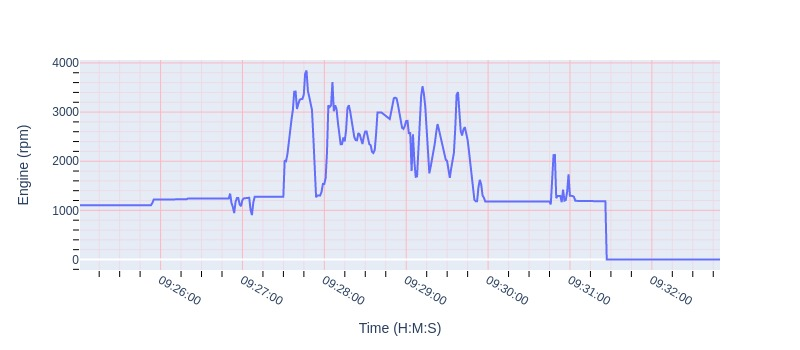
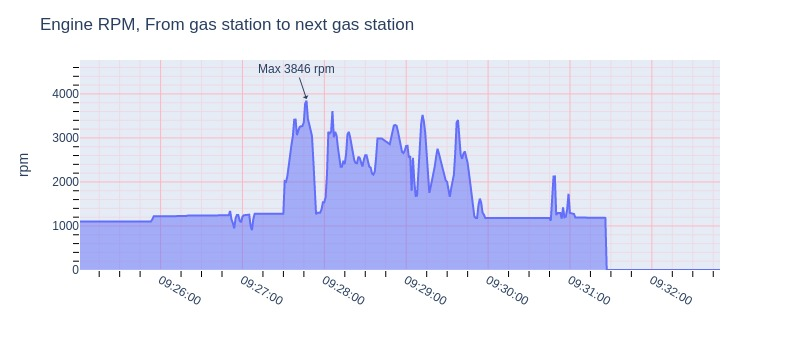
feat: add some graphs

diff --git a/rideology2gpx_tool/data_file.py b/rideology2gpx_tool/data_file.py
@@ -1,4 +1,5 @@
 import plotly.express as px
+from plotly.graph_objects import Figure, Table
 from pathlib import Path
 from datetime import timedelta
 from datetime import datetime
@@ -241,17 +242,13 @@ class DataFile():
         out.sort(key=lambda d: [d['gear'], d['kmh']])
         return out
 
-    def _table_report(self, tablefmt='plain'):
+    def _table_report(self, tablefmt='github'):
 
         table = []
 
         F = lambda x: x
         if tablefmt=='plain':
             F = lambda x: f"{x}:"
-        
-        kargs = {'tablefmt': tablefmt}
-        if tablefmt=='github':
-            kargs['headers'] = ['Item', 'Value']
 
         table.append([F('Max engine speed'), f"{self.max_engine_rpm} rpm"])
         table.append([F('Max wheel speed'), f"{self.max_wheel_speed} km/h"])
@@ -265,6 +262,16 @@ class DataFile():
         table.append([F('Distance'), f"{self.distance:.2f} km"])
         table.append([F('Starting point'), str(self.start)])
         table.append([F('Ending point'), str(self.end)])
+
+        return table
+
+    def _table_report_str(self, tablefmt='plain'):
+
+        table = self._table_report(tablefmt=tablefmt)
+       
+        kargs = {'tablefmt': tablefmt}
+        if tablefmt=='github':
+            kargs['headers'] = ['Item', 'Value']
 
         return tabulate(table, **kargs)
 
@@ -287,7 +294,7 @@ class DataFile():
 {' '.join(self.title.split())}
 {' '.join([len(x)*'=' for x in self.title.split()])}
     
-{self._table_report()}
+{self._table_report_str()}
 
 Max for each gear
 --- --- ---- ----
@@ -390,24 +397,35 @@ Max for each gear
         for field, unit in [
                 ("Wheel speed", "km/h"),
                 ("Engine RPM", "rpm"),
-                ("Gear position", "0=N")
+                ("Gear position", "Gear")
             ]:
 
             posname = "_".join([''] + field.strip().split()).lower()
-            title = f"{field} ({unit})"
+            title = f"{field}, {' '.join(self.title.split())}"
             
             df = self.data_frame(start_time=start_time)
             
-            fig = px.line(df, x='Time', y=field)
+            fig = px.area(df, x='Time', y=field)
             
             base_kargs = dict(showgrid=True, gridwidth=1,
                               gridcolor='LightPink',
-                minor=dict(ticklen=6, tickcolor="black", showgrid=True))
+                minor=dict(ticklen=6 if field!="Gear position" else 0,
+                           tickcolor="black", showgrid=True))
             
             fig.update_xaxes(title=None, tickformat="%H:%M:%S",
                              tickangle=30, **base_kargs)
             
-            fig.update_yaxes(title=title, **base_kargs)
+            fig.update_yaxes(title=unit, **base_kargs)
+
+            if field=="Gear position":
+                fig.update_yaxes(tickvals=[0,1,2,3,4,5,6], ticktext=[
+                    ' N   ', 
+                    '1st  ',
+                    '2nd  ',
+                    '3rd  ',
+                    '4th  ',
+                    '5th  ',
+                    '6th  '])
 
             if field in ["Wheel speed", "Engine RPM"]:
                 
@@ -418,6 +436,8 @@ Max for each gear
                     text=f"Max {max_y} {unit}", x=max_x, y=max_y*1.01,
                     arrowhead=1, showarrow=True
                 )
+
+            fig.update_layout(title=title)
 
             image_filename = self.filename.with_name(
                 f"{basename}{posname}").with_suffix('.jpeg')
@@ -430,6 +450,69 @@ Max for each gear
             if not silent:
                 print(" Ok")
 
+        def get_values(table):
+            values = []
+            for i in range(len(table[0])):
+                values.append([x[i] for x in table])
+        
+            return values
+
+        table = self._table_report()
+        values = get_values(table)
+
+        fig = Figure(
+            data=[Table(
+                columnorder = [1, 2],
+                columnwidth = [45, 55],
+                cells = dict(values=values, align = 'left',
+                             line_color='darkslategray'),
+                header = dict(values=['Item', 'Value'], align = 'center',
+                              line_color='darkslategray')
+            )])
+        
+        title = f"Info, {' '.join(self.title.split())}"
+
+        fig.update_layout(title=title)
+
+        image_filename = self.filename.with_name(
+            f"{basename}_table").with_suffix('.jpeg')
+
+        if not silent:
+            print(f"Make file {repr(str(image_filename))}...", end="")
+        
+        fig.write_image(image_filename, width=500, height=450)
+
+        if not silent:
+            print(" Ok")
+
+        table = [[r[k] for k in ['gear', 'rpm', 'kmh']
+                  ] for r in self.max_for_each_gear]
+        values = get_values(table)
+
+        fig = Figure(
+            data=[Table(
+                cells = dict(values=values, align = 'right',
+                             line_color='darkslategray'),
+                header = dict(values=['Gear', 'rpm', 'km/h'],
+                              align = 'center',
+                              line_color='darkslategray')
+            )])
+        
+        title = f"Max for each gear, {' '.join(self.title.split())}"
+
+        fig.update_layout(title=title)
+
+        image_filename = self.filename.with_name(
+            f"{basename}_max_for_each_gear").with_suffix('.jpeg')
+
+        if not silent:
+            print(f"Make file {repr(str(image_filename))}...", end="")
+        
+        fig.write_image(image_filename, width=550, height=350)
+
+        if not silent:
+            print(" Ok")
+
         max_for_each_gear_str = tabulate(
             self.max_for_each_gear,
             headers={'gear':'Gear', 'kmh':'km/h'},
@@ -440,7 +523,7 @@ Max for each gear
 
         md = f"""# {' '.join(self.title.split())}
 
-{self._table_report(tablefmt="github")}
+{self._table_report_str(tablefmt="github")}
 
 ## Max for each gear
 

diff --git a/example/README.md b/example/README.md
@@ -11,6 +11,8 @@ Make file 'ride_report.txt'... Ok
 Make file 'ride_wheel_speed.jpeg'... Ok
 Make file 'ride_engine_rpm.jpeg'... Ok
 Make file 'ride_gear_position.jpeg'... Ok
+Make file 'ride_table.jpeg'... Ok
+Make file 'ride_max_for_each_gear.jpeg'... Ok
 Make file 'ride_report.md'... Ok
 
 From gas station to next gas station
@@ -49,6 +51,8 @@ You get these `.jpeg` files:
 - `ride_wheel_speed.jpeg`
 - `ride_engine_rpm.jpeg`
 - `ride_gear_position.jpeg`
+- `ride_table.jpeg`
+- `ride_max_for_each_gear.jpeg`
 
 And reports:
 
